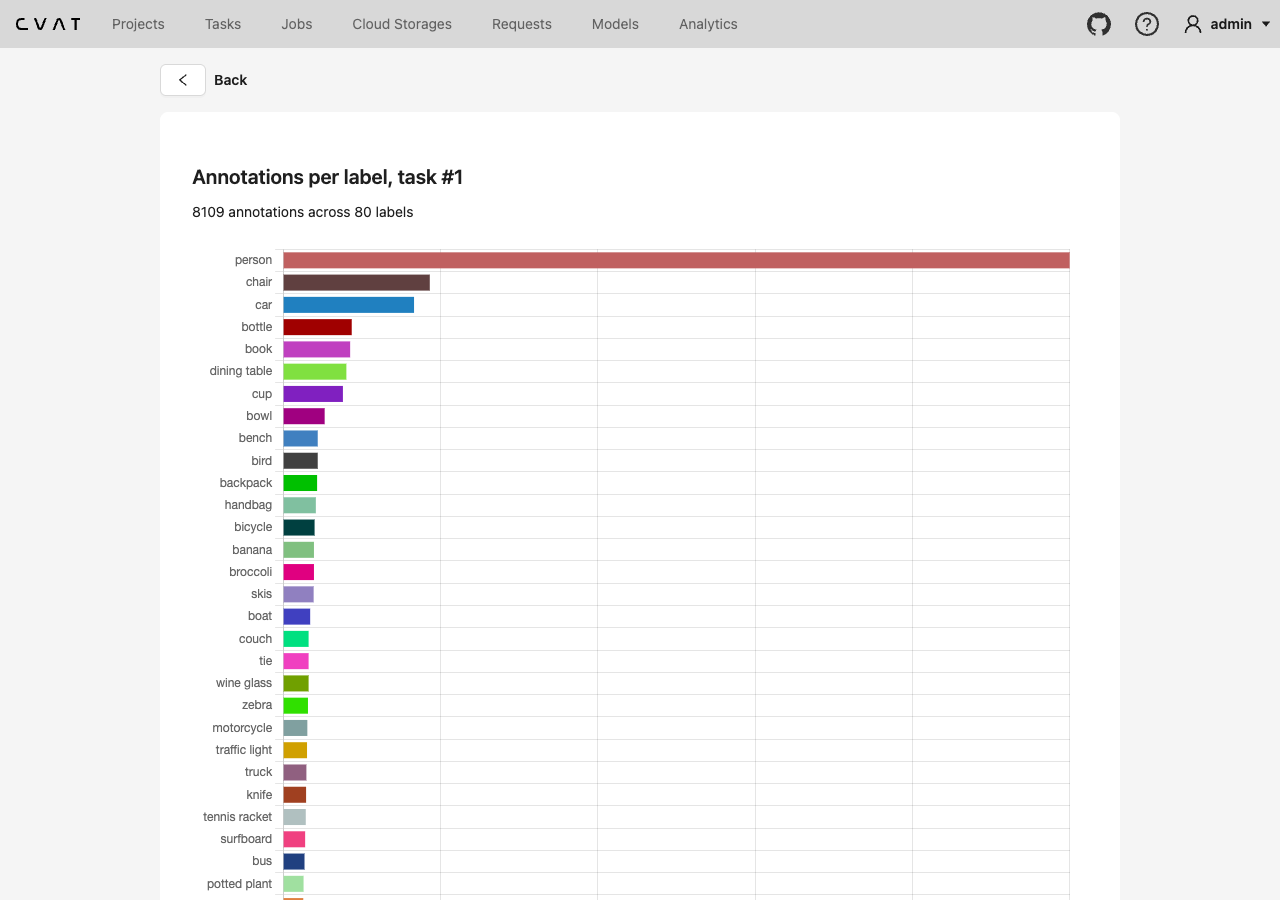
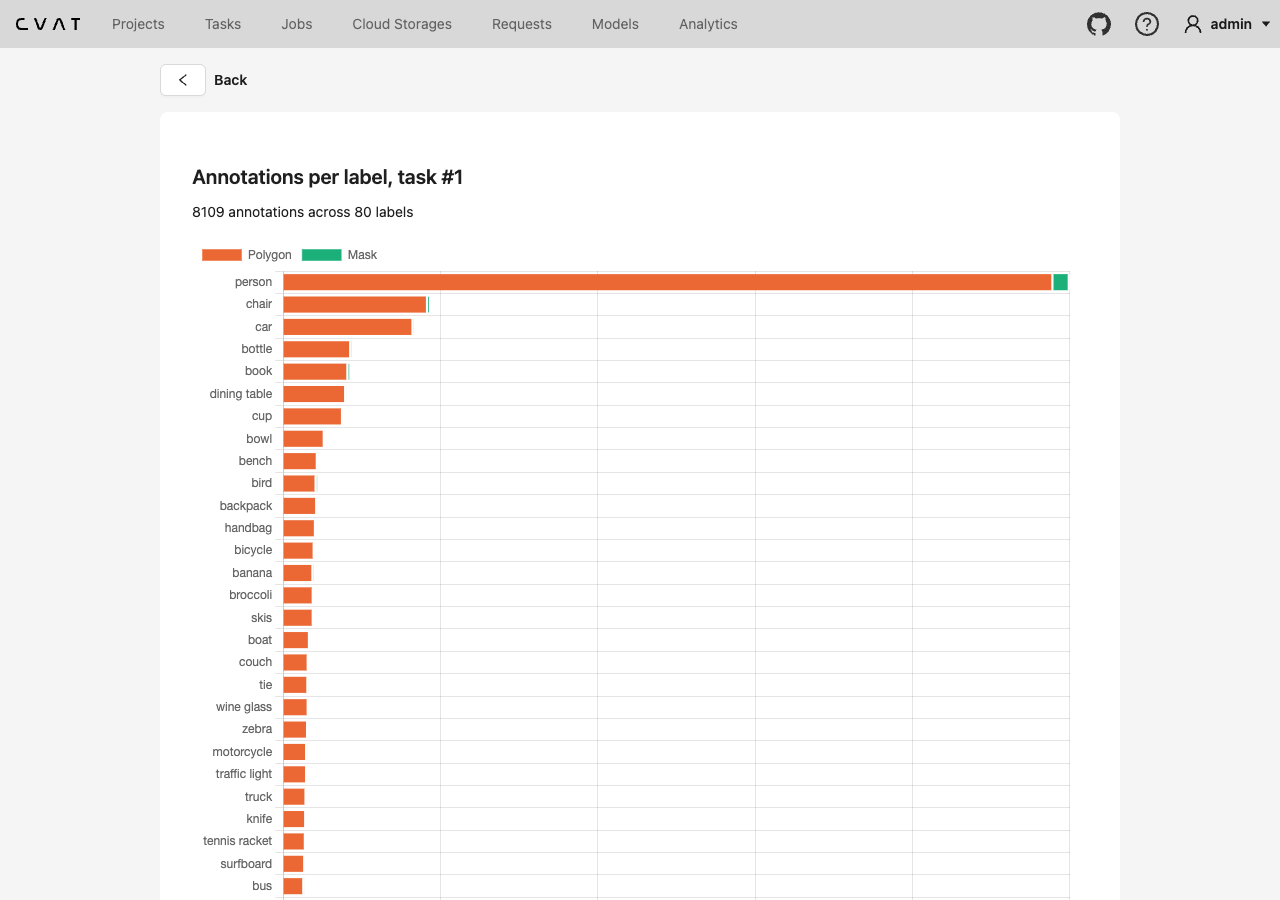
Split each label's count by annotation kind
A class with thousands of annotations is no use to a box detector if they
are all masks, so the endpoint now returns count_by_kind per label: shape
type for shapes, plus "track" and "tag". It is the same GROUP BY with the
shape type added, so it costs no extra query.

The chart stacks one series per kind. Each kind has a fixed position and
color, so a kind keeps its color whichever kinds a task contains, and the
eight hues pass the palette validator for colorblind separation; the rarer
types (polyline, points, cuboid) share the last slot instead of adding a
ninth hue. Three of the hues are below 3:1 contrast on white, so the exact
numbers are also given in a table under the chart.

Verified against SQL grouped by label and shape type: all 99 pairs match.

Changed region(s): [[0.1562, 0.2489, 0.8438, 1.0]]

diff --git a/cvat-ui/src/components/label-counts/label-counts-chart.tsx b/cvat-ui/src/components/label-counts/label-counts-chart.tsx
@@ -4,17 +4,17 @@
 
 import React from 'react';
 import {
-    Chart as ChartJS, BarElement, CategoryScale, LinearScale, Tooltip,
+    Chart as ChartJS, BarElement, CategoryScale, Legend, LinearScale, Tooltip,
 } from 'chart.js';
 import { Bar } from 'react-chartjs-2';
 
 import { LabelCount } from './label-counts-api';
+import { countOfKind, kindsPresent } from './annotation-kinds';
 
-ChartJS.register(BarElement, CategoryScale, LinearScale, Tooltip);
+ChartJS.register(BarElement, CategoryScale, Legend, LinearScale, Tooltip);
 
 const BAR_HEIGHT_PX = 22;
-const AXES_HEIGHT_PX = 60;
-const FALLBACK_COLOR = '#1890ff';
+const AXES_AND_LEGEND_HEIGHT_PX = 90;
 
 interface Props {
     labels: LabelCount[];
@@ -23,22 +23,30 @@ interface Props {
 function LabelCountsChart({ labels }: Props): JSX.Element {
     const data = {
         labels: labels.map((label) => label.name),
-        datasets: [{
-            label: 'Annotations',
-            data: labels.map((label) => label.count),
-            backgroundColor: labels.map((label) => label.color || FALLBACK_COLOR),
-        }],
+        datasets: kindsPresent(labels).map((kind) => ({
+            label: kind.title,
+            data: labels.map((label) => countOfKind(label, kind.key)),
+            backgroundColor: kind.color,
+            borderColor: 'white',
+            borderWidth: { right: 2 },
+            borderSkipped: false,
+        })),
     };
 
     return (
-        <div style={{ height: labels.length * BAR_HEIGHT_PX + AXES_HEIGHT_PX }}>
+        <div style={{ height: labels.length * BAR_HEIGHT_PX + AXES_AND_LEGEND_HEIGHT_PX }}>
             <Bar
                 data={data}
                 options={{
                     indexAxis: 'y',
                     maintainAspectRatio: false,
                     animation: false,
-                    scales: { x: { beginAtZero: true, ticks: { precision: 0 } } },
+                    interaction: { mode: 'index', axis: 'y', intersect: false },
+                    plugins: { legend: { position: 'top', align: 'start' } },
+                    scales: {
+                        x: { stacked: true, beginAtZero: true, ticks: { precision: 0 } },
+                        y: { stacked: true },
+                    },
                 }}
             />
         </div>

diff --git a/cvat-ui/src/components/label-counts/annotation-kinds.ts b/cvat-ui/src/components/label-counts/annotation-kinds.ts
@@ -1,0 +1,36 @@
+// Copyright (C) 2026 Sajad Ahmed
+//
+// SPDX-License-Identifier: MIT
+
+import { LabelCount } from './label-counts-api';
+
+const OTHER_KIND = 'other';
+
+// Fixed order and color per kind, so a kind keeps its color whichever kinds a task has.
+// Eight colorblind-checked hues: the rarer shape types share the last slot.
+export const ANNOTATION_KINDS: { key: string; title: string; color: string }[] = [
+    { key: 'rectangle', title: 'Rectangle', color: '#2a78d6' },
+    { key: 'polygon', title: 'Polygon', color: '#eb6834' },
+    { key: 'mask', title: 'Mask', color: '#1baf7a' },
+    { key: 'track', title: 'Track', color: '#eda100' },
+    { key: 'tag', title: 'Tag', color: '#e87ba4' },
+    { key: 'ellipse', title: 'Ellipse', color: '#008300' },
+    { key: 'skeleton', title: 'Skeleton', color: '#4a3aa7' },
+    { key: OTHER_KIND, title: 'Other (polyline, points, cuboid)', color: '#e34948' },
+];
+
+const NAMED_KINDS = new Set(ANNOTATION_KINDS.map((kind) => kind.key));
+
+export function countOfKind(label: LabelCount, kind: string): number {
+    if (kind !== OTHER_KIND) {
+        return label.count_by_kind[kind] ?? 0;
+    }
+
+    return Object.entries(label.count_by_kind)
+        .filter(([key]) => !NAMED_KINDS.has(key))
+        .reduce((sum, [, count]) => sum + count, 0);
+}
+
+export function kindsPresent(labels: LabelCount[]): typeof ANNOTATION_KINDS {
+    return ANNOTATION_KINDS.filter((kind) => labels.some((label) => countOfKind(label, kind.key) > 0));
+}

diff --git a/cvat-ui/src/components/label-counts/label-counts-table.tsx b/cvat-ui/src/components/label-counts/label-counts-table.tsx
@@ -1,0 +1,41 @@
+// Copyright (C) 2026 Sajad Ahmed
+//
+// SPDX-License-Identifier: MIT
+
+import React from 'react';
+import Table from 'antd/lib/table';
+
+import { LabelCount } from './label-counts-api';
+import { countOfKind, kindsPresent } from './annotation-kinds';
+
+interface Props {
+    labels: LabelCount[];
+}
+
+function LabelCountsTable({ labels }: Props): JSX.Element {
+    const columns = [
+        { title: 'Label', dataIndex: 'name', key: 'name' },
+        ...kindsPresent(labels).map((kind) => ({
+            title: kind.title,
+            key: kind.key,
+            align: 'right' as const,
+            render: (_: unknown, label: LabelCount) => countOfKind(label, kind.key),
+        })),
+        {
+            title: 'Total', dataIndex: 'count', key: 'count', align: 'right' as const,
+        },
+    ];
+
+    return (
+        <Table
+            className='cvat-label-counts-table'
+            size='small'
+            rowKey='id'
+            pagination={false}
+            columns={columns}
+            dataSource={labels}
+        />
+    );
+}
+
+export default React.memo(LabelCountsTable);

diff --git a/cvat-ui/src/components/label-counts/label-counts-page.tsx b/cvat-ui/src/components/label-counts/label-counts-page.tsx
@@ -16,6 +16,7 @@ import Title from 'antd/lib/typography/Title';
 import GoBackButton from 'components/common/go-back-button';
 import CVATLoadingSpinner from 'components/common/loading-spinner';
 import LabelCountsChart from './label-counts-chart';
+import LabelCountsTable from './label-counts-table';
 import { TaskLabelCounts, fetchTaskLabelCounts } from './label-counts-api';
 
 function LabelCountsPage(): JSX.Element {
@@ -67,6 +68,7 @@ function LabelCountsPage(): JSX.Element {
                     {`${counts.total} annotations across ${counts.labels.length} labels`}
                 </Text>
                 <LabelCountsChart labels={counts.labels} />
+                <LabelCountsTable labels={counts.labels} />
             </>
         );
     }

diff --git a/cvat-ui/src/components/label-counts/label-counts-api.ts b/cvat-ui/src/components/label-counts/label-counts-api.ts
@@ -11,6 +11,7 @@ export interface LabelCount {
     name: string;
     color: string;
     count: number;
+    count_by_kind: Record<string, number>;
 }
 
 export interface TaskLabelCounts {

diff --git a/cvat/apps/test/counts.py b/cvat/apps/test/counts.py
@@ -2,7 +2,7 @@
 #
 # SPDX-License-Identifier: MIT
 
-from collections import Counter
+from collections import Counter, defaultdict
 
 from django.db.models import Count
 
@@ -15,29 +15,41 @@ from cvat.apps.engine.models import (
     Task,
 )
 
+TRACK_KIND = "track"
+TAG_KIND = "tag"
+
 
 def count_annotations_per_label(task: Task) -> list[dict]:
     """
-    Counts the annotations of a task per label, in the database.
+    Counts the annotations of a task per label, split by kind, in the database.
 
-    Only annotation jobs are counted: ground truth and consensus jobs repeat frames
-    of the task. Skeleton elements are left out (parent is set), so a skeleton counts once.
-    A track counts as one object, however many frames it spans.
+    The kind of a shape is its shape type (rectangle, polygon, mask, ...); tracks and tags
+    are their own kinds. Only annotation jobs are counted: ground truth and consensus jobs
+    repeat frames of the task. Skeleton elements are left out (parent is set), so a skeleton
+    counts once. A track counts as one object, however many frames it spans.
     """
     jobs = Job.objects.filter(segment__task_id=task.id, type=JobType.ANNOTATION)
-    annotation_querysets = (
-        LabeledShape.objects.filter(job__in=jobs, parent__isnull=True),
-        LabeledTrack.objects.filter(job__in=jobs, parent__isnull=True),
-        LabeledImage.objects.filter(job__in=jobs),
-    )
+    counts_by_kind: dict[int, Counter] = defaultdict(Counter)
 
-    counts = Counter()
-    for queryset in annotation_querysets:
+    shapes = LabeledShape.objects.filter(job__in=jobs, parent__isnull=True)
+    for row in shapes.values("label_id", "type").annotate(count=Count("id")).order_by():
+        counts_by_kind[row["label_id"]][row["type"]] += row["count"]
+
+    for kind, queryset in (
+        (TRACK_KIND, LabeledTrack.objects.filter(job__in=jobs, parent__isnull=True)),
+        (TAG_KIND, LabeledImage.objects.filter(job__in=jobs)),
+    ):
         for row in queryset.values("label_id").annotate(count=Count("id")).order_by():
-            counts[row["label_id"]] += row["count"]
+            counts_by_kind[row["label_id"]][kind] += row["count"]
 
     labels = [
-        {"id": label.id, "name": label.name, "color": label.color, "count": counts[label.id]}
+        {
+            "id": label.id,
+            "name": label.name,
+            "color": label.color,
+            "count": counts_by_kind[label.id].total(),
+            "count_by_kind": dict(counts_by_kind[label.id]),
+        }
         for label in task.get_labels()
     ]
     labels.sort(key=lambda label: (-label["count"], label["name"]))

diff --git a/cvat/apps/test/serializers.py b/cvat/apps/test/serializers.py
@@ -10,6 +10,10 @@ class LabelCountSerializer(serializers.Serializer):
     name = serializers.CharField()
     color = serializers.CharField()
     count = serializers.IntegerField()
+    count_by_kind = serializers.DictField(
+        child=serializers.IntegerField(),
+        help_text="Counts split by shape type, plus 'track' and 'tag'. Kinds with no annotations are omitted.",
+    )
 
 
 class TaskLabelCountsSerializer(serializers.Serializer):
